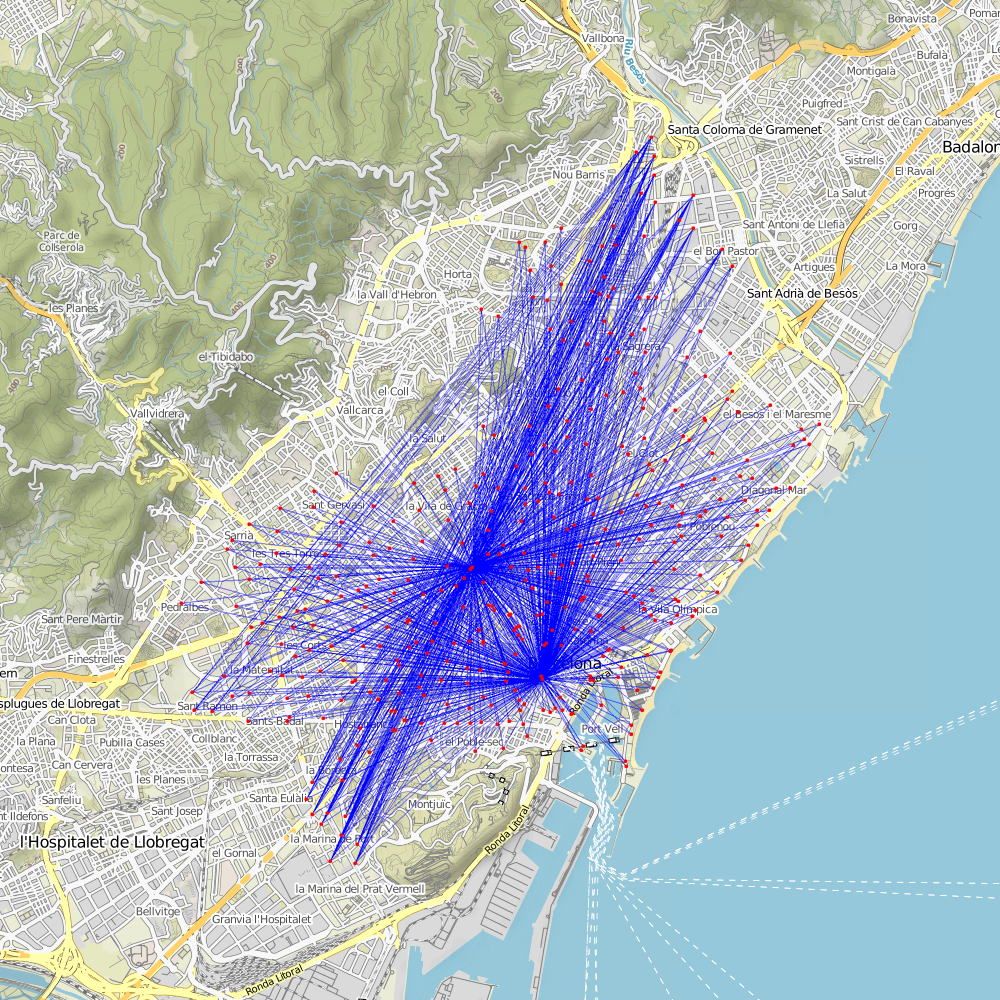
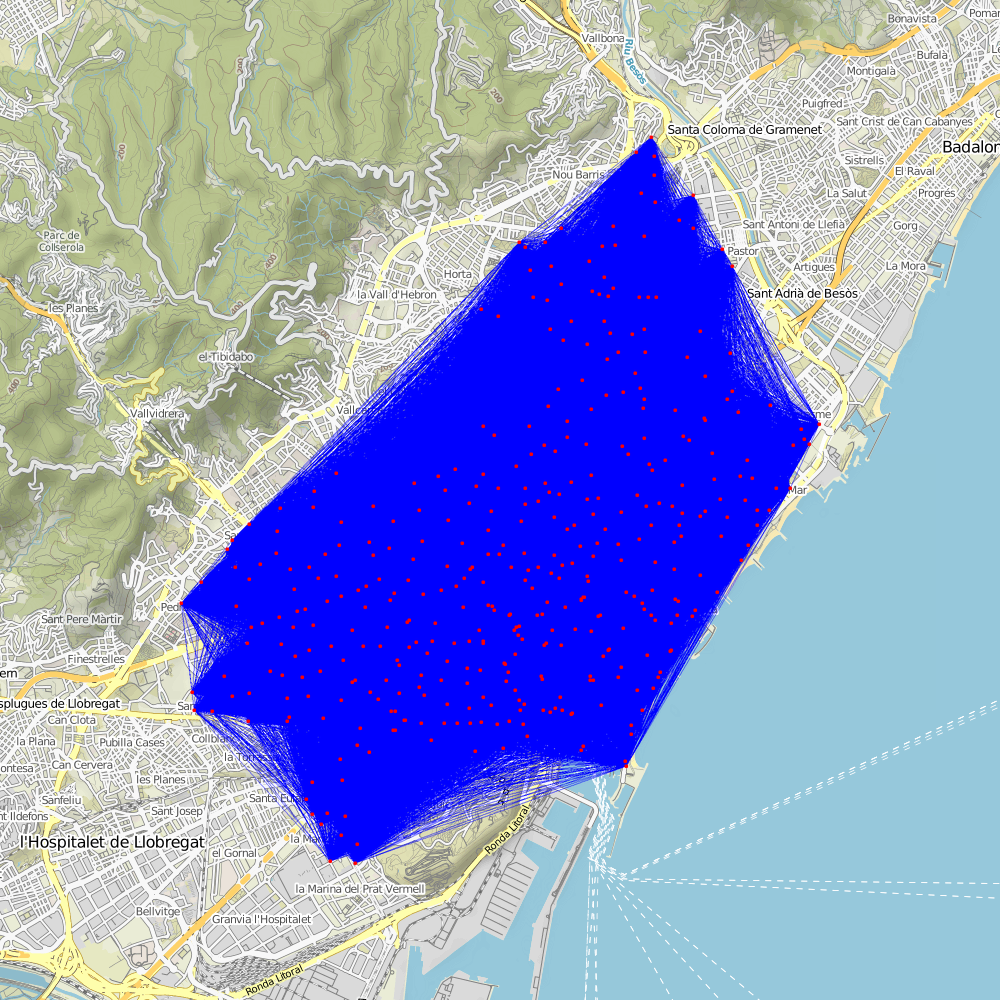
saca el shortest path guay, falta dibujarlo

Changed region(s): [[0.186, 0.124, 0.837, 0.868]]

diff --git a/data.py b/data.py
@@ -86,7 +86,9 @@ def Route(G, addresses):
         Gc.add_edge(node,start,weight = 10/4*weight1)
         Gc.add_edge(node,finish,weight = 10/4*weight2)
     Plotgraph(Gc,'complement.png')
-    Gc = nx.disjoint_union(G, Gc)
+    Gc = nx.compose(G, Gc)
+    Plotgraph(Gc,'union.png')
+    print(nx.dijkstra_path(Gc,start,finish))
 
     # hacer dykstra con Gc
     # ¿Crear un nuevo grafo con el trayecto dado para poder printearlo?
